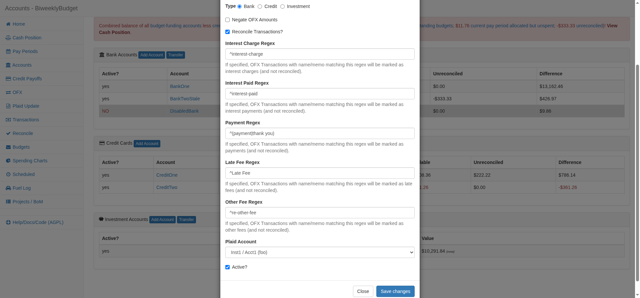
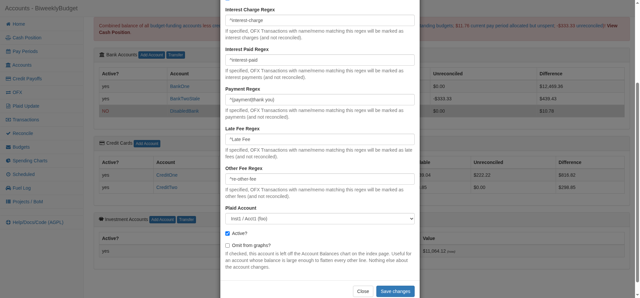
Omit Accounts From Graphs - M3.1: Document the setting and regenerate the modal screenshots (issue #357)
Adds "Leaving an account out" to the Account Balances Chart section of the
usage guide, sitting beside the existing "Accounts with no recent balances",
and points at it from the Charts section's legend bullet -- the legend is where
a user first tries to solve this problem, and it is worth saying there that the
hiding lasts only for the visit. The section is explicit that only the chart is
affected, and contrasts the setting with deactivating the account, since the
two look interchangeable until you need the account to keep counting.

http_api.rst gains omit_from_graphs in the POST /forms/account field list, and
its description of the chart's `keys` is rewritten. That description claimed
keys "Includes inactive accounts", which issue #356 made untrue one release ago
and which was missed at the time; rather than leave it to collect a second
error it now states the actual rule, that an account is charted when it is both
active and not omitted.

Screenshots: account1 and account1-plaid both show the Edit Account modal and
both are regenerated. account1-plaid is the one that shows the new checkbox and
its help text, since account1 is cut off well above it. Only these four files
are committed; the screenshots tox environment rewrites every PNG in
docs/source on every run because the sample data's timestamps move, and the
rest are byte-different without being changed, so they are reverted. The index
page screenshot in particular must not change, and does not, because no sample
[…]

diff --git a/specs/20260919-192038-omit-accounts-from-graphs/tasks.md b/specs/20260919-192038-omit-accounts-from-graphs/tasks.md
@@ -62,9 +62,9 @@ phase below.
 
 **⚠ CRITICAL**: No user story work can begin until this phase is complete.
 
-- [ ] T004 [M1.1] Add `omit_from_graphs = Column(Boolean, default=False)` to `Account` in `biweeklybudget/models/account.py`, immediately after the `is_active` column, with a `#:` docstring comment naming issue #357 in the style of the surrounding columns. Declare it identically to `Budget.omit_from_graphs` in `biweeklybudget/models/budget_model.py` — no server default, nullable.
-- [ ] T005 [M1.2] Re-confirm the current Alembic head is still `3f7c2a91e04b` (`alembic -c biweeklybudget/alembic/alembic.ini current`, or walk `revision`/`down_revision` under `biweeklybudget/alembic/versions/`), then create the migration `biweeklybudget/alembic/versions/<rev>_account_add_omit_from_graphs.py` with `down_revision = '<the head>'`, an `upgrade()` of `op.add_column('accounts', sa.Column('omit_from_graphs', sa.Boolean(), nullable=True))` and a `downgrade()` of `op.drop_column('accounts', 'omit_from_graphs')`, following `biweeklybudget/alembic/versions/6d37400ea9cd_add_omit_from_graphs_boolean_to_budget_.py`.
-- [ ] T006 [M1.3] Run the migration to head and back down one revision against the test database, confirming the column appears and disappears and that no other Account data is affected, then run `tox -e migrations` to confirm head matches the models (Constitution III).
+- [X] T004 [M1.1] Add `omit_from_graphs = Column(Boolean, default=False)` to `Account` in `biweeklybudget/models/account.py`, immediately after the `is_active` column, with a `#:` docstring comment naming issue #357 in the style of the surrounding columns. Declare it identically to `Budget.omit_from_graphs` in `biweeklybudget/models/budget_model.py` — no server default, nullable.
+- [X] T005 [M1.2] Re-confirm the current Alembic head is still `3f7c2a91e04b` (`alembic -c biweeklybudget/alembic/alembic.ini current`, or walk `revision`/`down_revision` under `biweeklybudget/alembic/versions/`), then create the migration `biweeklybudget/alembic/versions/<rev>_account_add_omit_from_graphs.py` with `down_revision = '<the head>'`, an `upgrade()` of `op.add_column('accounts', sa.Column('omit_from_graphs', sa.Boolean(), nullable=True))` and a `downgrade()` of `op.drop_column('accounts', 'omit_from_graphs')`, following `biweeklybudget/alembic/versions/6d37400ea9cd_add_omit_from_graphs_boolean_to_budget_.py`.
+- [X] T006 [M1.3] Run the migration to head and back down one revision against the test database, confirming the column appears and disappears and that no other Account data is affected, then run `tox -e migrations` to confirm head matches the models (Constitution III).
 
 **Checkpoint**: The column exists and is reversible. Nothing user-visible has changed.
 
@@ -80,13 +80,13 @@ phase below.
 
 ### Implementation
 
-- [ ] T007 [US1] [US4] [M2.1] In `AcctBalanaceChartView.get()` in `biweeklybudget/flaskapp/views/index.py`, build the `accounts` name map from `Account.active_accounts(db_session).filter(Account.omit_from_graphs.isnot(True))`. Use `isnot(True)` and **not** `__eq__(False)`: the column is `NULL` for every row that predates the migration, and `NULL = false` is not true in SQL, so the `== False` spelling drops every pre-upgrade Account from the chart (see [research.md](./research.md) R3). Do **not** add the filter to `Account.active_accounts()` itself — six account pickers share that helper and must be unaffected (FR-014).
-- [ ] T008 [US1] [US4] [M2.1] Extend the `AcctBalanaceChartView` class docstring in `biweeklybudget/flaskapp/views/index.py`, which already documents the issue #356 inactive-account exclusion, to state that Accounts marked omit-from-graphs are excluded the same way and for the same reasons, that an unset (`NULL`) flag means "charted", and that the two exclusions compose so that an Account which is both is excluded once (FR-013). Keep the existing guarantees list intact — in particular the one about dates being unaffected by which accounts are charted, which now covers both exclusions.
+- [X] T007 [US1] [US4] [M2.1] In `AcctBalanaceChartView.get()` in `biweeklybudget/flaskapp/views/index.py`, build the `accounts` name map from `Account.active_accounts(db_session).filter(Account.omit_from_graphs.isnot(True))`. Use `isnot(True)` and **not** `__eq__(False)`: the column is `NULL` for every row that predates the migration, and `NULL = false` is not true in SQL, so the `== False` spelling drops every pre-upgrade Account from the chart (see [research.md](./research.md) R3). Do **not** add the filter to `Account.active_accounts()` itself — six account pickers share that helper and must be unaffected (FR-014).
+- [X] T008 [US1] [US4] [M2.1] Extend the `AcctBalanaceChartView` class docstring in `biweeklybudget/flaskapp/views/index.py`, which already documents the issue #356 inactive-account exclusion, to state that Accounts marked omit-from-graphs are excluded the same way and for the same reasons, that an unset (`NULL`) flag means "charted", and that the two exclusions compose so that an Account which is both is excluded once (FR-013). Keep the existing guarantees list intact — in particular the one about dates being unaffected by which accounts are charted, which now covers both exclusions.
 
 ### Tests for User Story 1 + 4
 
-- [ ] T009 [US1] [US4] [M2.4] Add `TestAcctBalanceChartExcludesOmittedAccounts` to `biweeklybudget/tests/acceptance/flaskapp/views/test_index.py`, beside the existing `TestAcctBalanceChartExcludesInactiveAccounts` and modelled on it. Use `@pytest.mark.usefixtures('class_refresh_db', 'refreshdb', 'testflask')` so the class may alter data and have it restored; flag `InvestmentOne` (id 5, active, with balances inside the window) in an ordered first test via the `testdb` fixture. Do **not** flag anything in `biweeklybudget/tests/fixtures/sampledata.py` — see [research.md](./research.md) R5. Assert: the flagged Account is not in `keys`; it is in no `data` row for `''`, `?days=0`, `?days=15` and `?days=365`; every remaining Account's values and the full date list are unchanged from the unflagged response; and an Account that is both inactive and flagged is excluded without error.
-- [ ] T010 [P] [US4] [M2.4] Add a test to the same class in `biweeklybudget/tests/acceptance/flaskapp/views/test_index.py` asserting that an Account whose `omit_from_graphs` is `NULL` — set explicitly to `None` via `testdb` to reproduce the post-upgrade state — is still present in `keys` and in every `data` row. This is the regression guard for the `== False` trap; without it the defect is invisible until a user upgrades.
+- [X] T009 [US1] [US4] [M2.4] Add `TestAcctBalanceChartExcludesOmittedAccounts` to `biweeklybudget/tests/acceptance/flaskapp/views/test_index.py`, beside the existing `TestAcctBalanceChartExcludesInactiveAccounts` and modelled on it. Use `@pytest.mark.usefixtures('class_refresh_db', 'refreshdb', 'testflask')` so the class may alter data and have it restored; flag `InvestmentOne` (id 5, active, with balances inside the window) in an ordered first test via the `testdb` fixture. Do **not** flag anything in `biweeklybudget/tests/fixtures/sampledata.py` — see [research.md](./research.md) R5. Assert: the flagged Account is not in `keys`; it is in no `data` row for `''`, `?days=0`, `?days=15` and `?days=365`; every remaining Account's values and the full date list are unchanged from the unflagged response; and an Account that is both inactive and flagged is excluded without error.
+- [X] T010 [P] [US4] [M2.4] Add a test to the same class in `biweeklybudget/tests/acceptance/flaskapp/views/test_index.py` asserting that an Account whose `omit_from_graphs` is `NULL` — set explicitly to `None` via `testdb` to reproduce the post-upgrade state — is still present in `keys` and in every `data` row. This is the regression guard for the `== False` trap; without it the defect is invisible until a user upgrades.
 
 **Checkpoint**: The feature's core behaviour works and the upgrade path is pinned. The flag is not yet settable from the UI.
 
@@ -100,13 +100,13 @@ phase below.
 
 ### Implementation
 
-- [ ] T011 [P] [US2] [M2.2] In `accountModalDivForm()` in `biweeklybudget/flaskapp/static/js/accounts_modal.js`, add `.addCheckbox('account_frm_omit_from_graphs', 'omit_from_graphs', 'Omit from graphs?')` directly after the existing `Active?` checkbox, matching the label and call shape used at `biweeklybudget/flaskapp/static/js/budgets_modal.js:114`.
-- [ ] T012 [US2] [M2.2] In `accountModalDivFillAndShow()` in `biweeklybudget/flaskapp/static/js/accounts_modal.js`, set the checkbox from the response with a strict `if(msg['omit_from_graphs'] === true)` test (checked) / `else` (unchecked), placed next to the existing `is_active` block. The strict comparison is what renders a `NULL` flag as unticked rather than as `undefined`.
-- [ ] T013 [P] [US2] [M2.3] In `AccountFormHandler.submit()` in `biweeklybudget/flaskapp/views/accounts.py`, add `account.omit_from_graphs = data['omit_from_graphs']` immediately after the existing `account.is_active = data['is_active']` line. Add no validation in `validate()` — a checkbox has no invalid value, which is why the Budget handler validates nothing either.
+- [X] T011 [P] [US2] [M2.2] In `accountModalDivForm()` in `biweeklybudget/flaskapp/static/js/accounts_modal.js`, add `.addCheckbox('account_frm_omit_from_graphs', 'omit_from_graphs', 'Omit from graphs?')` directly after the existing `Active?` checkbox, matching the label and call shape used at `biweeklybudget/flaskapp/static/js/budgets_modal.js:114`.
+- [X] T012 [US2] [M2.2] In `accountModalDivFillAndShow()` in `biweeklybudget/flaskapp/static/js/accounts_modal.js`, set the checkbox from the response with a strict `if(msg['omit_from_graphs'] === true)` test (checked) / `else` (unchecked), placed next to the existing `is_active` block. The strict comparison is what renders a `NULL` flag as unticked rather than as `undefined`.
+- [X] T013 [P] [US2] [M2.3] In `AccountFormHandler.submit()` in `biweeklybudget/flaskapp/views/accounts.py`, add `account.omit_from_graphs = data['omit_from_graphs']` immediately after the existing `account.is_active = data['is_active']` line. Add no validation in `validate()` — a checkbox has no invalid value, which is why the Budget handler validates nothing either.
 
 ### Tests for User Story 2
 
-- [ ] T014 [US2] [M2.4] Add modal coverage to `biweeklybudget/tests/acceptance/flaskapp/views/test_accounts.py`, following the `budget_frm_omit_from_graphs` pattern in `biweeklybudget/tests/acceptance/flaskapp/views/test_budgets.py`: the Add Account modal shows `account_frm_omit_from_graphs` unticked; an existing unflagged Account's modal shows it unticked; ticking it and saving stores `omit_from_graphs is True` on the Account; reopening shows it ticked; unticking and saving stores `False`; and saving without touching it leaves the stored value unchanged.
+- [X] T014 [US2] [M2.4] Add modal coverage to `biweeklybudget/tests/acceptance/flaskapp/views/test_accounts.py`, following the `budget_frm_omit_from_graphs` pattern in `biweeklybudget/tests/acceptance/flaskapp/views/test_budgets.py`: the Add Account modal shows `account_frm_omit_from_graphs` unticked; an existing unflagged Account's modal shows it unticked; ticking it and saving stores `omit_from_graphs is True` on the Account; reopening shows it ticked; unticking and saving stores `False`; and saving without touching it leaves the stored value unchanged.
 
 **Checkpoint**: The feature is usable end to end.
 
@@ -120,8 +120,8 @@ phase below.
 
 **Why this is its own phase**: FR-014 is the requirement that makes the feature safe to use, and it is verified by *absence* of change — which no other task would notice failing. The call-site table in [research.md](./research.md) R7 is the map of what to check.
 
-- [ ] T015 [US3] [M2.4] Add a test to `biweeklybudget/tests/acceptance/flaskapp/views/test_index.py` (in the Phase 3 class) asserting that flagging an Account does not remove it from `Account.active_accounts()` — the guard against the single most likely wrong implementation, folding the filter into that shared helper. Query the helper directly via `testdb` with the Account flagged and assert it is still returned.
-- [ ] T016 [P] [US3] [M2.4] Verify by inspection and targeted test runs that no other code path reads `omit_from_graphs`: `grep -rn omit_from_graphs biweeklybudget/` must show Account hits only in `models/account.py`, `flaskapp/views/index.py`, `flaskapp/views/accounts.py`, `flaskapp/static/js/accounts_modal.js`, the migration and the tests. Run the accounts, cash-position, payperiod and transaction acceptance modules to confirm they are untouched.
+- [X] T015 [US3] [M2.4] Add a test to `biweeklybudget/tests/acceptance/flaskapp/views/test_index.py` (in the Phase 3 class) asserting that flagging an Account does not remove it from `Account.active_accounts()` — the guard against the single most likely wrong implementation, folding the filter into that shared helper. Query the helper directly via `testdb` with the Account flagged and assert it is still returned.
+- [X] T016 [P] [US3] [M2.4] Verify by inspection and targeted test runs that no other code path reads `omit_from_graphs`: `grep -rn omit_from_graphs biweeklybudget/` must show Account hits only in `models/account.py`, `flaskapp/views/index.py`, `flaskapp/views/accounts.py`, `flaskapp/static/js/accounts_modal.js`, the migration and the tests. Run the accounts, cash-position, payperiod and transaction acceptance modules to confirm they are untouched.
 
 **Checkpoint**: All four user stories are functional and the blast radius is proven to be one chart.
 
@@ -131,8 +131,8 @@ phase below.
 
 **Purpose**: Constitution IV — a change is not finished until the documentation describing it is updated in the same change.
 
-- [ ] T017 [P] [M3.1] Add a "Leaving an account out" subsection to the **Account Balances Chart** section of `docs/source/app_usage.rst`, sitting alongside the existing "Accounts with no recent balances" subsection: what the setting does, that it is per-account on the Edit Account modal, that the account is removed from the chart entirely rather than hidden, that everything else about the account is unaffected, and that legend click-to-hide remains the tool for a temporary hide. Add a pointer to it from the legend bullet in the **Charts** section, mirroring how the Spending Charts section points at the Budget flag.
-- [ ] T018 [P] [M3.2] In `docs/source/http_api.rst`: add `omit_from_graphs` *(boolean, optional)* to the `POST /forms/account` request-field list, and rewrite the Account Balance Chart Data section's `keys` description — it currently reads "Includes inactive accounts", which issue #356 already made untrue — to state that `keys` holds the charted accounts, being those that are active and not marked omit-from-graphs (FR-020).
+- [X] T017 [P] [M3.1] Add a "Leaving an account out" subsection to the **Account Balances Chart** section of `docs/source/app_usage.rst`, sitting alongside the existing "Accounts with no recent balances" subsection: what the setting does, that it is per-account on the Edit Account modal, that the account is removed from the chart entirely rather than hidden, that everything else about the account is unaffected, and that legend click-to-hide remains the tool for a temporary hide. Add a pointer to it from the legend bullet in the **Charts** section, mirroring how the Spending Charts section points at the Budget flag.
+- [X] T018 [P] [M3.2] In `docs/source/http_api.rst`: add `omit_from_graphs` *(boolean, optional)* to the `POST /forms/account` request-field list, and rewrite the Account Balance Chart Data section's `keys` description — it currently reads "Includes inactive accounts", which issue #356 already made untrue — to state that `keys` holds the charted accounts, being those that are active and not marked omit-from-graphs (FR-020).
 - [ ] T019 [M3.3] Regenerate the screenshots that show the Edit Account modal with `tox -e screenshots` and commit the changed PNGs: `docs/source/account1.png`, `account1_sm.png`, `account1-plaid.png`, `account1-plaid_sm.png`. Confirm no other screenshot changed — in particular the index page, which must be unaffected because no sample Account is flagged. Never run `tox -e docs` in the same invocation as `screenshots`; it deletes the PNGs. If a caption needs changing, edit it in `docs/make_screenshots.py`, which generates `docs/source/screenshots.rst`.
 - [ ] T020 [M3.4] Run `tox -e docs` to completion, redirecting output to a scratchpad file, and confirm it builds clean including linkcheck.
 
@@ -144,7 +144,7 @@ phase below.
 
 **Purpose**: Constitution VI and II, then delivery.
 
-- [ ] T021 [M4.1] Add one concise bullet to `CHANGES.rst` under an `Unreleased` heading (creating the heading directly beneath `Changelog` if absent), led by the issue #357 link, describing the new **Omit from graphs?** setting and noting the schema migration. Keep it to a sentence or two with at most a couple of short sub-bullets, per the existing entries. **Do not link to the new `app_usage.rst` section** — a changelog link to an anchor added in the same pull request fails `tox -e docs` linkcheck; name the section in prose. **Do not touch `biweeklybudget/version.py`**, create a tag, or cut a release.
+- [X] T021 [M4.1] Add one concise bullet to `CHANGES.rst` under an `Unreleased` heading (creating the heading directly beneath `Changelog` if absent), led by the issue #357 link, describing the new **Omit from graphs?** setting and noting the schema migration. Keep it to a sentence or two with at most a couple of short sub-bullets, per the existing entries. **Do not link to the new `app_usage.rst` section** — a changelog link to an anchor added in the same pull request fails `tox -e docs` linkcheck; name the section in prose. **Do not touch `biweeklybudget/version.py`**, create a tag, or cut a release.
 - [ ] T022 [M4.2] Run the full suites to completion, each redirected to a scratchpad file rather than piped to `tail`/`grep`: `tox -e py314`, `tox -e acceptance`, `tox -e migrations`, `tox -e docs`. All must pass in full — a narrowed or timed-out run is not a pass (Constitution II). Re-run a known-flaky failure (reconcile drag/unignore, fuel log search, Plaid "Uncheck All", docs linkcheck timeouts) in isolation before attributing it to this change.
 - [ ] T023 [M4.2] Work through `specs/20260919-192038-omit-accounts-from-graphs/quickstart.md` against a running application, in particular step 2 — the post-upgrade check that an all-`NULL` column still charts every Account.
 - [ ] T024 [M4.3] Push the branch to `origin` with `git push -u origin HEAD:refs/heads/robot-army/issue-357-allow-excluding-accounts-from-the-index` (the branch tracks `origin/master`, so a bare `git push` would target master), open a detailed pull request referencing issue #357, monitor CI to completion, and use `/answer-reviews` until Claude's review reports no issues found and Copilot, if present, recommends approval.

diff --git a/docs/source/app_usage.rst b/docs/source/app_usage.rst
@@ -445,7 +445,10 @@ range, and a hint above it lists the controls:
   greyed out when there is nothing to reset.
 * **Click a name in the legend** below the chart to hide that line, and click
   again to bring it back. This is useful when one large account or budget sets
-  the scale for all the others.
+  the scale for all the others. The hiding lasts for the current visit only; to
+  keep an account off the Account Balances chart for good, see
+  :ref:`app_usage.account_balance_chart.omit`, and for a budget, see
+  :ref:`app_usage.spending_charts`.
 
 Whenever the visible dates or lines change, the vertical axis rescales to fit
 just what is shown. A chart cannot be zoomed narrower than the widest gap
@@ -518,6 +521,38 @@ very different statement from "nothing new has been recorded".
 An account whose data begins part-way through the selected range is not treated
 this way — its line simply starts where its data starts, rather than being
 extended back over dates when the account had no recorded balance.
+
+.. _app_usage.account_balance_chart.omit:
+
+Leaving an account out
+++++++++++++++++++++++
+
+One account can make the chart useless for all the others. A mortgage balance is
+often two orders of magnitude larger than a checking account, and because every
+line shares one vertical axis, the mortgage sets the scale and everything else is
+squashed into a flat band along the bottom.
+
+Clicking the account in the legend hides it, but only until the page is reloaded.
+To keep it off the chart for good, open the account from the Accounts page and
+tick **Omit from graphs?**, the same setting the Budgets page offers for budgets.
+
+An omitted account is left out of the chart entirely: it has no line, no legend
+entry, and its balances are not sent to the browser at all. The remaining accounts
+are then rescaled to fill the chart, which is the point of the setting. Untick it
+and the line comes back in full, including the balances recorded while it was
+omitted — nothing is deleted and nothing is lost.
+
+**Only the chart is affected.** The account is still listed on the Accounts page
+with its balance, still counted in every total on the dashboard, the Cash Position
+page and every pay period, still offered in every account dropdown, and still
+reconciled and updated as before. This is what makes the setting different from
+deactivating the account: deactivating says you are finished with it, whereas
+omitting it from graphs says only that its line makes the chart harder to read.
+
+The dates on the chart do not change when an account is omitted. A date that is on
+the chart only because the omitted account recorded a balance that day is still
+plotted, carrying the other accounts' values forward, so omitting an account never
+puts a gap in the timeline.
 
 .. _app_usage.spending_charts:
 

diff --git a/CHANGES.rst b/CHANGES.rst
@@ -16,6 +16,12 @@ Unreleased
   * The Account filters above the Transactions and OFX Transactions tables still offer inactive Accounts, so historical data stays searchable, and the Accounts page still lists them.
   * Nothing is deleted: an inactive Account's balance history is retained, and re-activating it restores its chart line and its place in every dropdown.
 
+* `Issue #357 <https://github.com/jantman/biweeklybudget/issues/357>`_ - Accounts can now be left off the dashboard's Account Balances chart, with a new "Omit from graphs?" checkbox on the Add/Edit Account modal. One large balance - a mortgage, typically - used to set the chart's vertical scale and flatten every other account into a band along the bottom, and hiding it from the legend lasted only until the page was reloaded.
+
+  * An omitted Account is left out of the chart data entirely: no line, no legend entry, and its balances are not sent to the browser. Untick the setting and its line returns in full, including the balances recorded while it was omitted.
+  * Only the chart is affected. The Account is still listed, still counted in every total, still offered in every dropdown, and still reconciled and updated as before. See "Leaving an account out" in the Account Balances Chart documentation.
+  * Requires a schema migration, which adds the column as unset; no existing Account is omitted by the upgrade.
+
 * `Issue #358 <https://github.com/jantman/biweeklybudget/issues/358>`_ - The "This payment covers:" panel in the transaction modal now counts a card's unpaid charges from the first payment you recorded toward that card, instead of from ``CREDIT_PAYMENT_BEGIN_DATE``. On a long-running install the panel used to list every pay period since you started - over 200 rows in a modal - with an unpaid total unrelated to the card's balance.
 
   * Payments made before 2.0.0 carry no card designation and are never subtracted, so the first payment you enter for each card after upgrading still shows the old, whole-history window and will warn that it exceeds your recorded charges. Save it anyway; every payment for that card afterwards is scoped to the periods since it. This is per-card and needs no configuration.

diff --git a/docs/source/http_api.rst b/docs/source/http_api.rst
@@ -386,6 +386,7 @@ Create a new :py:class:`~.Account` or update an existing one. Handled by :py:cla
 - ``description`` *(string, optional)* - Account description.
 - ``acct_type`` *(string, required)* - Account type: ``Bank``, ``Credit``, or ``Investment``.
 - ``is_active`` *(boolean, optional)* - Whether the account is active.
+- ``omit_from_graphs`` *(boolean, optional)* - Whether to leave this account off charts that plot accounts, currently the Account Balances chart on the index page. Presentation only: it affects no balance, total or account picker.
 - ``credit_limit`` *(decimal, optional)* - Credit limit (for credit accounts).
 - ``apr`` *(decimal, optional)* - Annual Percentage Rate (for credit accounts). Values greater than 1 are converted to a decimal (e.g. ``22.5`` becomes ``0.225``).
 - ``prime_rate_margin`` *(decimal, optional)* - Prime rate margin (for credit accounts).
@@ -801,8 +802,8 @@ has a value on every returned date. Handled by
 
 **Response:**
 
-- ``data`` *(array)* - One object per date, ascending. Each has a ``date`` key in ``YYYY-MM-DD`` format plus one key per account name, whose value is that account's balance on that date, or ``null`` if the account had no recorded balance at or before it. A ``NULL`` ledger balance is reported as ``0.0``.
-- ``keys`` *(array)* - Account names, sorted. Includes inactive accounts.
+- ``data`` *(array)* - One object per date, ascending. Each has a ``date`` key in ``YYYY-MM-DD`` format plus one key per charted account name, whose value is that account's balance on that date, or ``null`` if the account had no recorded balance at or before it. A ``NULL`` ledger balance is reported as ``0.0``.
+- ``keys`` *(array)* - The charted account names, sorted. An account is charted when it is both active and not marked ``omit_from_graphs``; an account failing either test appears in neither ``keys`` nor any object in ``data``. The set of dates returned is unaffected either way.
 
 .. code-block:: json
 
